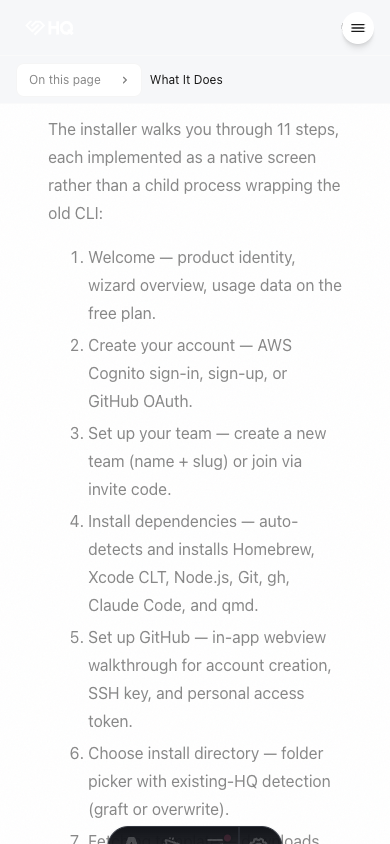
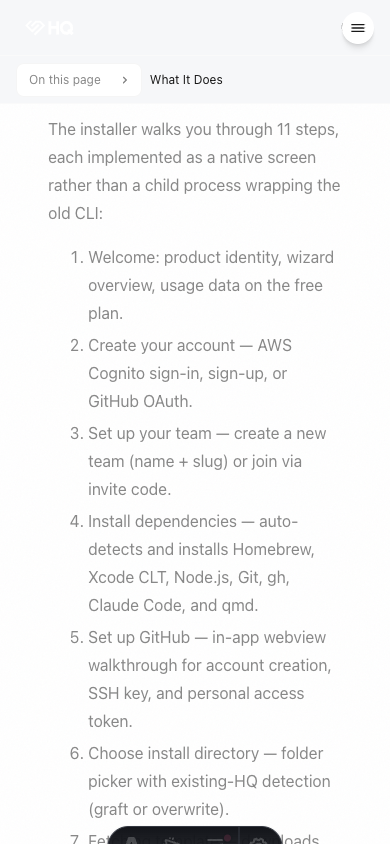
docs: fix usage data control wording and remaining dashes
The off switch for card companies is a per-person setting, so the security
overview no longer says an admin turns it off. Replace the em dashes on the
edited overview and quickstart lines, and name the Continue button on the
setup screen. Mirror in llms-full.txt and retake the affected screenshots.

HQ-Fingerprint: hqfp1:indigo:-:laptop.e344e623:41771f57

Changed region(s): [[0.2154, 0.2773, 0.8615, 0.4005]]

diff --git a/src/content/docs/hq/products/hq-pro/quickstart.md b/src/content/docs/hq/products/hq-pro/quickstart.md
@@ -15,7 +15,7 @@ Because the binary is signed with Indigo's Developer ID and notarized by Apple, 
 
 ## Screen 1 — Set up HQ
 
-The welcome screen introduces HQ as an open-source AI dev team for Claude Code — 45 workers, 60+ skills, and an orchestrator. It lists the 11 steps you're about to walk through.
+The welcome screen introduces HQ as an open-source AI dev team for Claude Code: 45 workers, 60+ skills, and an orchestrator. It lists the 11 steps you're about to walk through.
 
 Setup also shows **Usage data on the free plan**. Using HQ for free includes sharing usage data with us. It helps us see what people use and fix what breaks. Adding a card to your company turns this into a setting you can switch off.
 
@@ -37,7 +37,7 @@ What is never collected:
 
 Collection starts after you click **Continue**. HQ can also run self-hosted with no usage data sent; see [Use HQ free, self-hosted or on-prem](/hq/guide/use-hq-for-free/). For the full details, see [What HQ collects on the free plan](/hq/guide/what-hq-collects-on-the-free-plan/).
 
-Click **Get Started** to begin.
+Click **Continue** to begin.
 
 ## Screen 2 — Create your account
 

diff --git a/src/content/docs/hq/products/hq-pro/overview.md b/src/content/docs/hq/products/hq-pro/overview.md
@@ -19,7 +19,7 @@ HQ power users who prefer the CLI can still use [create-hq](/hq/products/hq-core
 
 The installer walks you through **11 steps**, each implemented as a native screen rather than a child process wrapping the old CLI:
 
-1. **Welcome** — product identity, wizard overview, usage data on the free plan.
+1. **Welcome**: product identity, wizard overview, usage data on the free plan.
 2. **Create your account** — AWS Cognito sign-in, sign-up, or GitHub OAuth.
 3. **Set up your team** — create a new team (name + slug) or join via invite code.
 4. **Install dependencies** — auto-detects and installs Homebrew, Xcode CLT, Node.js, Git, gh, Claude Code, and qmd.
